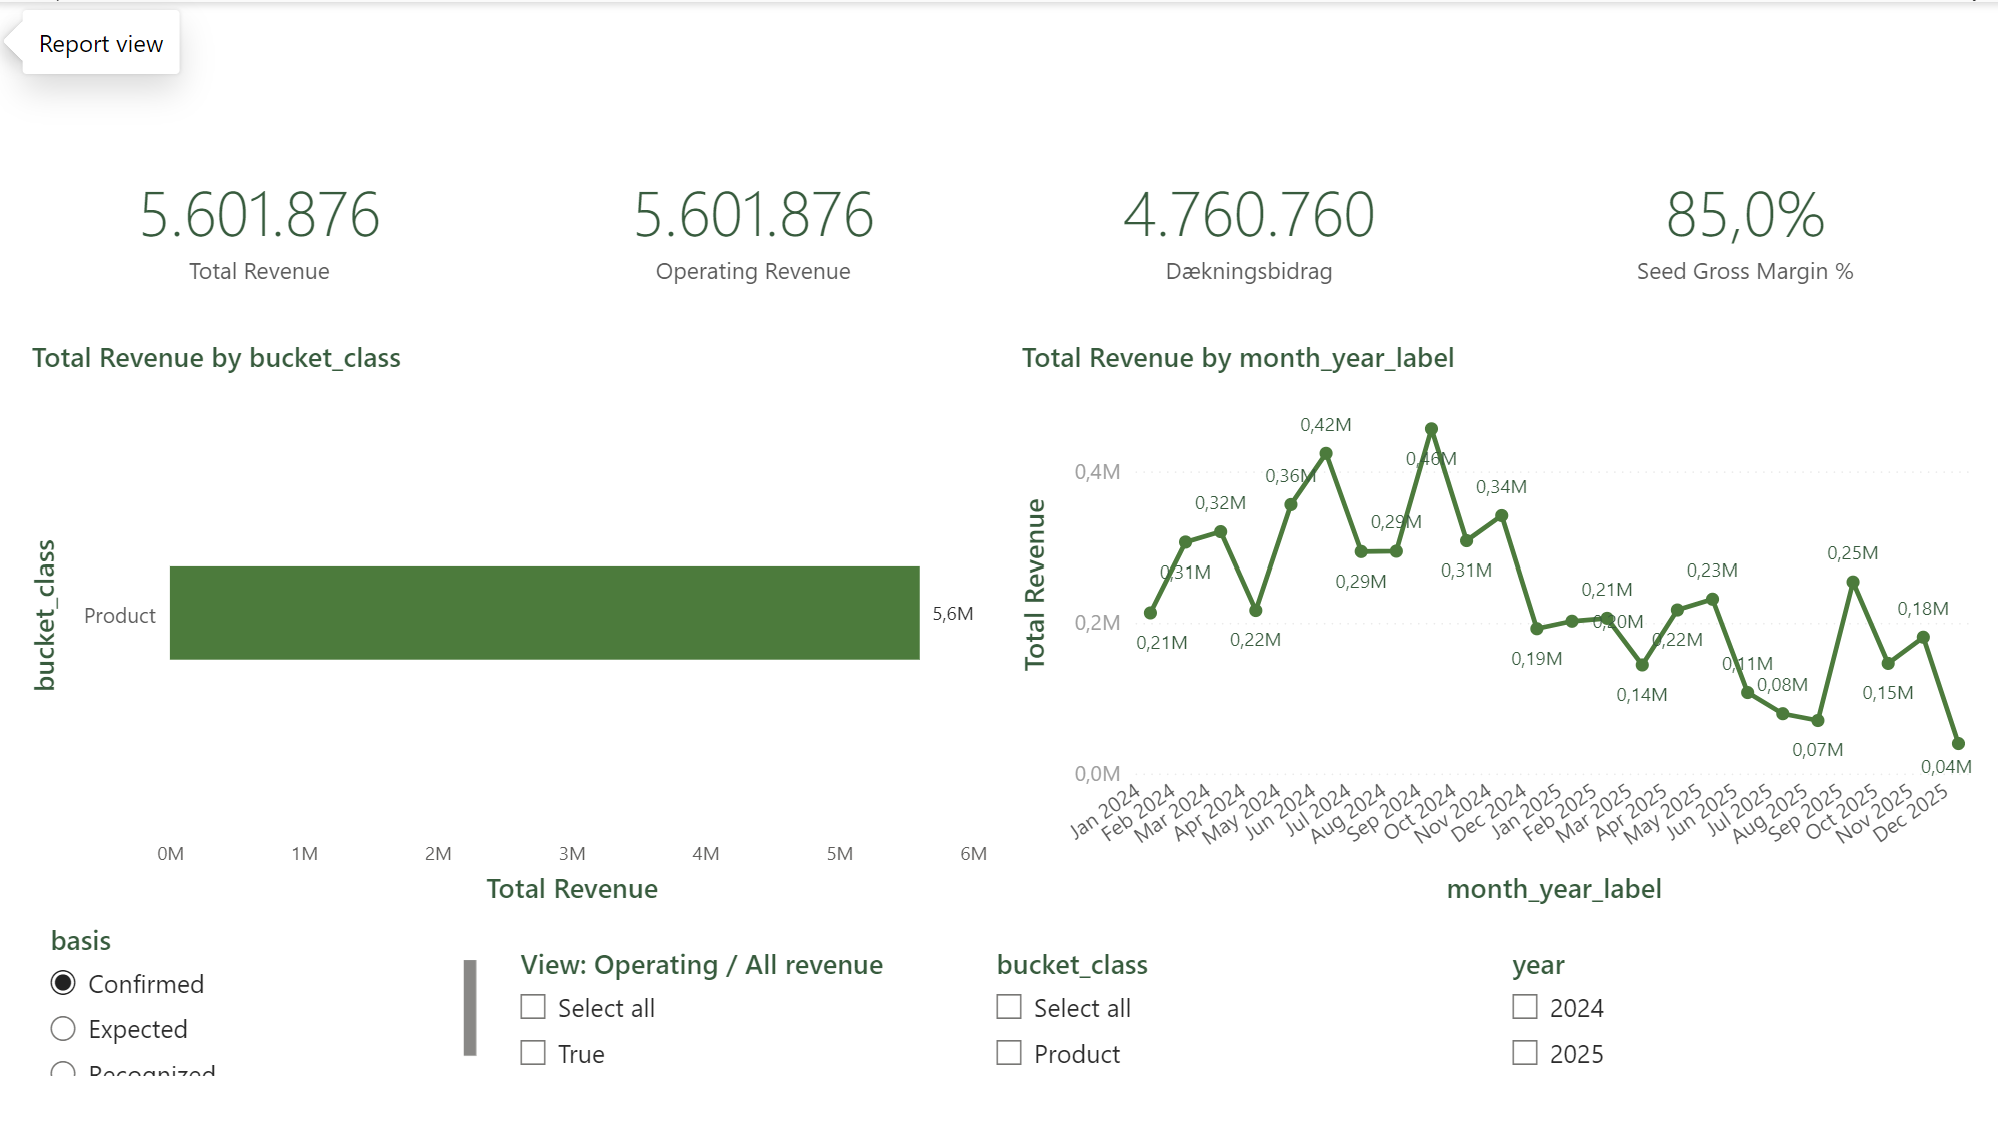
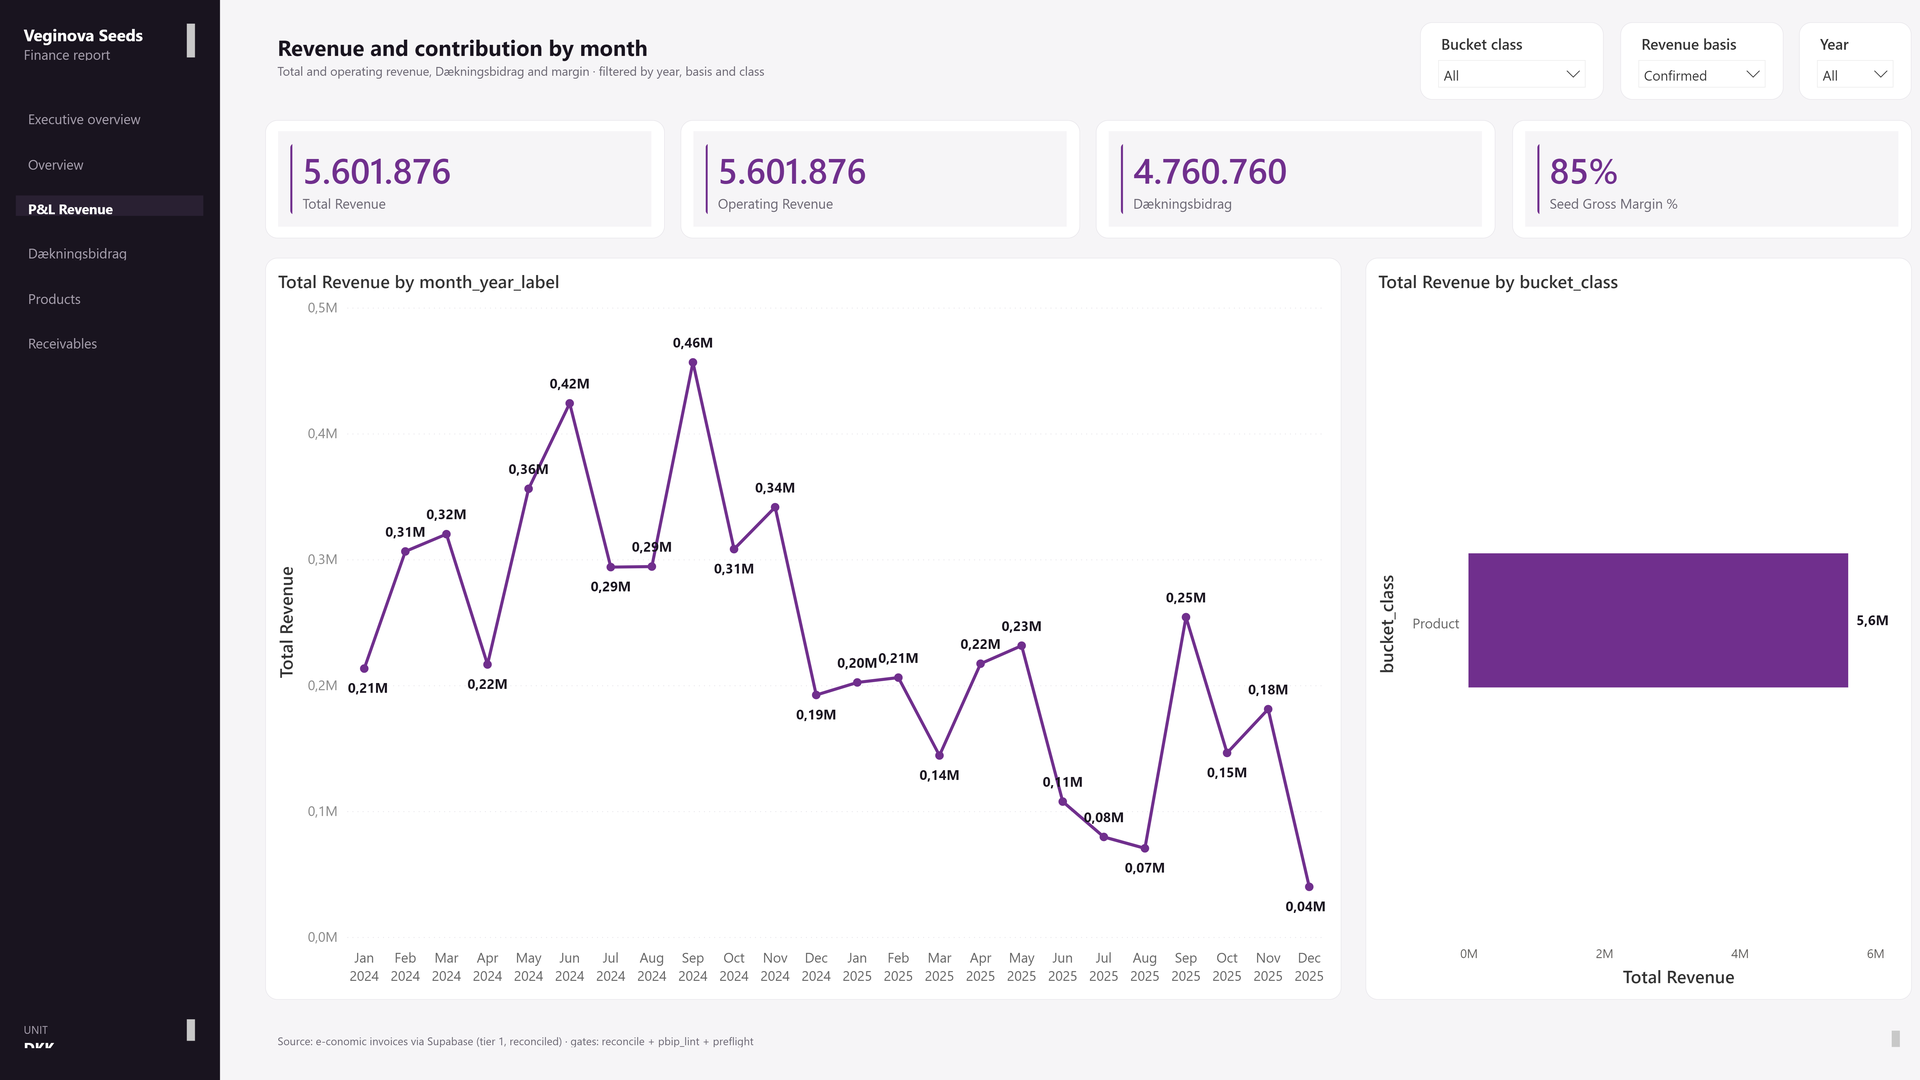
Reshoot the four dashboard images on the rebuilt design
The images still showed the June layout while the text describes the house grid
rolled across all 14 pages. Captured from the _demo PBIP duplicates, which read
fictive data, so the captions stay true.

Fictive data verified at the source rather than by eye, since the numbers are
the thing that must not leak:

- the demo finance model reads fct_revenue_demo, totalling 5,892,388.93 against
  the real 7,975,280.54
- the demo operations schema gives 798.7 to produce across 11 red varieties,
  against the real 784.4 across 26

Both match the values the demo README says to expect. Desktop was confirmed to
have the _demo path open before either capture.

The finance overview shot is now the P&L page, so its caption drops the promise
of receivables and describes what is actually on screen. The other three
captions already matched their pages. All four images are cropped to the report
canvas by detecting the nav rail and resized to a uniform 1920x1080, replacing
the old hand-snipped crops at 192 DPI and four different sizes.

diff --git a/_projects/04-veginova-invoices.md b/_projects/04-veginova-invoices.md
@@ -68,7 +68,7 @@ With trustworthy numbers, the commercial picture finally became visible:
 - **Accounts receivable.** Around 1.2M DKK was outstanding, of which roughly a quarter had aged past 90 days and was quietly at risk.
 
 ![Finance overview, revenue, contribution margin, and receivables on one view]({{ '/assets/images/projects/veginova-finance-overview.png' | relative_url }})
-*Revenue, contribution margin, and accounts receivable on a single trusted view. The reconciliation result sits behind the revenue figure: leadership is told it ties out; the detail is one click down. The real Power BI dashboard, shown on illustrative data.*
+*Total and operating revenue, contribution margin, and margin percentage, with revenue by month against revenue by bucket. The reconciliation result sits behind the revenue figure: leadership is told it ties out; the detail is one click down. The real Power BI dashboard, shown on illustrative data.*
 
 ## What changed
 
